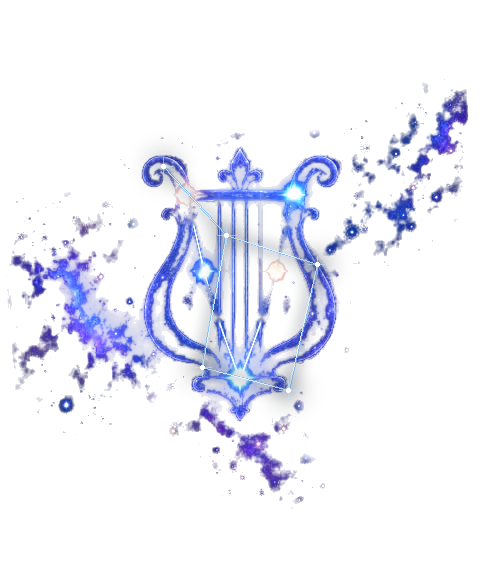
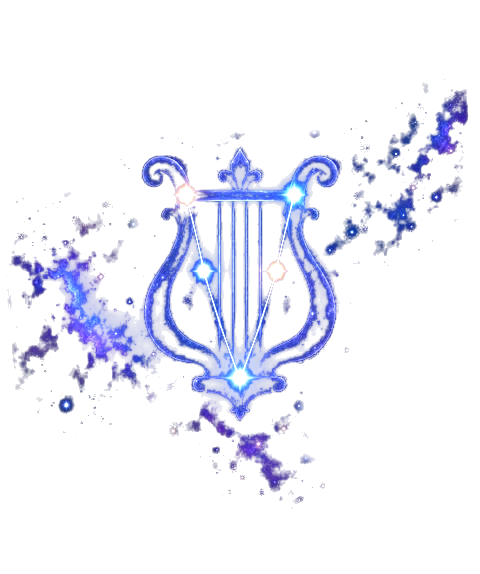
V286: reject overlay artwork, restore approved images, set up same-style full redraw safety pipeline

diff --git a/scripts/v286-package-redrawn-art.py b/scripts/v286-package-redrawn-art.py
@@ -1,0 +1,88 @@
+#!/usr/bin/env python3
+"""V286 safe packaging of genuinely REDRAWN, manually approved artwork.
+
+NO compositing of constellation lines on an old image is permitted.
+Run with --verify (default) for checks; --publish requires an explicit
+approved full RGBA redraw PNG in artwork-redraws/sources/.
+This script NEVER pushes to main and NEVER alters game logic.
+"""
+from __future__ import annotations
+import argparse
+import json
+from pathlib import Path
+from PIL import Image, ImageOps, ImageStat
+
+ROOT=Path(__file__).resolve().parents[1]
+SOURCE=ROOT/'artwork-redraws'/'sources'
+TARGET=ROOT/'assets'/'constellations-transparent'
+STEMS=('10-lyra','16-hayk-belt','22-pisces','30-canis-minor')
+
+def validate(stem, source: Path):
+    with Image.open(source) as raw:
+        if raw.mode != 'RGBA':
+            raise ValueError(f'{stem}: requires finished, manually matted RGBA PNG (not JPEG or overlay)')
+        im=ImageOps.exif_transpose(raw).copy()
+    w,h=im.size
+    if w<480 or h<550 or h<=w:
+        raise ValueError(f'{stem}: portrait art must be >=480x550 with height > width')
+    a=im.getchannel('A')
+    extrema=a.getextrema()
+    coverage=a.histogram()
+    if extrema[0]!=0 or extrema[1]<248 or sum(coverage[240:])<w*h*.025:
+        raise ValueError(f'{stem}: alpha must contain both transparent background and opaque luminous figure')
+    if sum(coverage[:15])<w*h*.12:
+        raise ValueError(f'{stem}: need substantial clear area, no full-frame rectangular nebula')
+    # Check visible luminance without pretending to verify astronomical nodes.
+    rgba=im.getdata()
+    visible=0;blue=0;bright=0
+    for r,g,b,a in rgba:
+        if a<130:continue
+        visible+=1
+        if b>=r and b>=g*.85:blue+=1
+        if min(r,g,b)>225:bright+=1
+    if not visible or blue/max(visible,1)<.42 or bright<8:
+        raise ValueError(f'{stem}: missing blue/violet art or luminous full-white star centres')
+    return im,{"dimensions":[w,h],"opaque_pixels":sum(coverage[248:]),
+               "clear_pixels":sum(coverage[:15]),"bright_stars":bright}
+
+def main():
+    parser=argparse.ArgumentParser()
+    parser.add_argument('--publish',action='store_true',help='Write ONLY approved 4 PNG/WebP pairs to current checkout')
+    parser.add_argument('--only',choices=STEMS,nargs='*',help='Optional subset of four affected illustrations')
+    args=parser.parse_args()
+    names=args.only or STEMS
+    pending=[x for x in names if not (SOURCE/(x+'.png')).is_file()]
+    if pending:
+        print('NO ASSETS MODIFIED. Awaiting manually approved full redraw sources:',', '.join(pending))
+        if args.publish:raise SystemExit('Cannot publish until approved source PNGs exist')
+        return
+    checked={}
+    for stem in names:
+        im,metrics=validate(stem,SOURCE/(stem+'.png'))
+        checked[stem]=(im,metrics)
+        print('VALIDATED FULL REDRAW',stem,json.dumps(metrics))
+    if not args.publish:
+        print('VERIFY ONLY. Nothing overwritten; still needs visual + astronomical expert review.')
+        return
+    manifest_path=TARGET/'manifest.json'
+    manifest=json.loads(manifest_path.read_text(encoding='utf8'))
+    assert len(manifest)==38 and len({x['source'] for x in manifest})==38
+    for stem,(im,metrics) in checked.items():
+        path=TARGET/(stem+'.png')
+        im.save(path,'PNG',compress_level=6)
+        preview=im.copy()
+        preview.thumbnail((560,760),Image.Resampling.LANCZOS)
+        webp=TARGET/(stem+'.webp')
+        preview.save(webp,'WEBP',quality=88,method=4)
+        for row in manifest:
+            if row['source']==stem+'.jpg':
+                row['size']=list(im.size)
+                row['png_bytes']=path.stat().st_size
+                row['webp_bytes']=webp.stat().st_size
+                break
+        else:raise ValueError('Not in immutable manifest: '+stem)
+    manifest_path.write_text(json.dumps(manifest,indent=2,ensure_ascii=False)+'\n',encoding='utf8')
+    print('STAGED ONLY THESE FILES:',len(names),'PNG pairs + manifest; NOT DEPLOYED')
+    print('Recheck original file names, star layout, game-size fit and user approval before merge.')
+
+if __name__=='__main__':main()

diff --git a/CURRENT_STATUS.md b/CURRENT_STATUS.md
@@ -391,3 +391,5 @@ Await GitHub Pages + automated browsers for V259, then user DotKiosk visual/audi
 - V285 QA-only iOS WebKit result: run 38035079915 confirmed file picker DID save WAV to IndexedDB (8044 bytes) and applied selected label, blob URL and musicTrack=custom, but Playwright RAF waitForFunction had timed out. Added timed polling and direct DOM/IndexedDB verification fallback. Production source and approved gameplay untouched. Re-run CI before merge.
 
 - V286 feature work STARTED (not yet deployed): separate `feature/v286-verified-constellation-artwork` branch, generated-only 4-asset correction pipeline (Lyra, Orion Belt, Pisces, Canis Minor), `V286_CORRECTIONS.md`. Scientific reference IAU says no official fixed constellation stick diagram. Preserve other 34 images and approved V285 audio, wallet, 850/580/780ms animations. Run visual/QA checks and verify artwork before ever merging into main. No live changes at this stage.
+
+- 2026-10-10 V286 user explicitly REJECTED overlay patchwork and accepted same-style FULL ART REDRAW. Feature branch PR #8 is DRAFT / NOT FOR MERGE. Experimental 8 PNG/WebP overlay binaries RESET to exact main V285 blobs; overlay generator disabled/deleted. New `artwork-redraws/README.md` contains 4 art + astro briefs (Lyra, Orion Belt, Pisces, Canis Minor), `scripts/v286-package-redrawn-art.py` packages only manually verified complete RGBA originals and NEVER publishes by default. One Pisces concept generated (Runway task fed69cd3-ddd3-4fc6-93e9-dcc538a3c688), NOT an accepted final asset. All 34 other artwork pairs, game logic/star wallet, audio settings and WAAPI effects preserved. Next: visual inspection + actual new transparent art sources before replacing any assets. Do not claim V286 deployed.

diff --git a/PROJECT_HANDOFF.md b/PROJECT_HANDOFF.md
@@ -347,3 +347,5 @@ Investigation found actual Space Search code in space-3d-games.js: losers fade w
 - V285 QA-only iOS WebKit result: run 38035079915 confirmed file picker DID save WAV to IndexedDB (8044 bytes) and applied selected label, blob URL and musicTrack=custom, but Playwright RAF waitForFunction had timed out. Added timed polling and direct DOM/IndexedDB verification fallback. Production source and approved gameplay untouched. Re-run CI before merge.
 
 - V286 feature work STARTED (not yet deployed): separate `feature/v286-verified-constellation-artwork` branch, generated-only 4-asset correction pipeline (Lyra, Orion Belt, Pisces, Canis Minor), `V286_CORRECTIONS.md`. Scientific reference IAU says no official fixed constellation stick diagram. Preserve other 34 images and approved V285 audio, wallet, 850/580/780ms animations. Run visual/QA checks and verify artwork before ever merging into main. No live changes at this stage.
+
+- 2026-10-10 V286 user explicitly REJECTED overlay patchwork and accepted same-style FULL ART REDRAW. Feature branch PR #8 is DRAFT / NOT FOR MERGE. Experimental 8 PNG/WebP overlay binaries RESET to exact main V285 blobs; overlay generator disabled/deleted. New `artwork-redraws/README.md` contains 4 art + astro briefs (Lyra, Orion Belt, Pisces, Canis Minor), `scripts/v286-package-redrawn-art.py` packages only manually verified complete RGBA originals and NEVER publishes by default. One Pisces concept generated (Runway task fed69cd3-ddd3-4fc6-93e9-dcc538a3c688), NOT an accepted final asset. All 34 other artwork pairs, game logic/star wallet, audio settings and WAAPI effects preserved. Next: visual inspection + actual new transparent art sources before replacing any assets. Do not claim V286 deployed.
